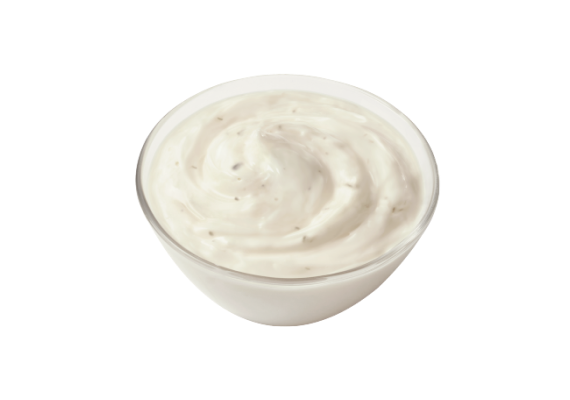
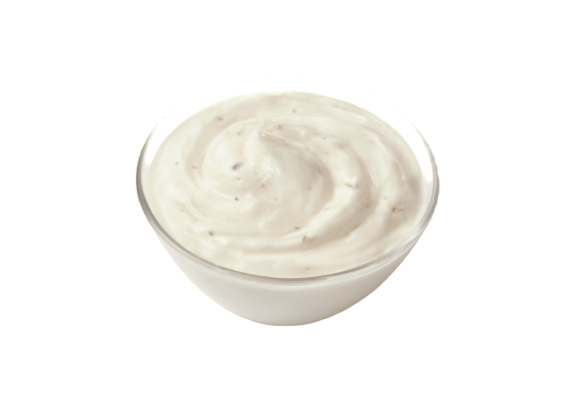
소스토핑 구조 구현

diff --git a/src/data/toppingData.js b/src/data/toppingData.js
@@ -114,3 +114,91 @@ export const vegetables = [
     image:  process.env.PUBLIC_URL + "/images/vegetables/vege09.png",
   },
 ];
+
+export const sauce = [
+ {
+    id: 1,
+    name: "렌치",
+    eng: "Ranch",
+    image:  process.env.PUBLIC_URL + "/images/sauce/sauce01.png",
+  },
+ {
+    id: 2,
+    name: "스위트 어니언",
+    eng: "Sweet Onion",
+    image:  process.env.PUBLIC_URL + "/images/sauce/sauce02.png",
+  },
+ {
+    id: 3,
+    name: "마요네즈",
+    eng: "Mayonnaise",
+    image:  process.env.PUBLIC_URL + "/images/sauce/sauce03.png",
+  },
+ {
+    id: 4,
+    name: "스위트 칠리",
+    eng: "Sweet Chilli",
+    image:  process.env.PUBLIC_URL + "/images/sauce/sauce04.png",
+  },
+ {
+    id: 5,
+    name: "스모크 바비큐",
+    eng: "Smoke BBQ",
+    image:  process.env.PUBLIC_URL + "/images/sauce/sauce05.png",
+  },
+ {
+    id: 6,
+    name: "핫 칠리",
+    eng: "Hot Chilli",
+    image:  process.env.PUBLIC_URL + "/images/sauce/sauce06.png",
+  },
+ {
+    id: 7,
+    name: "허니 머스터드",
+    eng: "Honey Mustard",
+    image:  process.env.PUBLIC_URL + "/images/sauce/sauce07.png",
+  },
+ {
+    id: 8,
+    name: "사우스웨스트 치폴레",
+    eng: "Southwest Chipotle",
+    image:  process.env.PUBLIC_URL + "/images/sauce/sauce08.png",
+  },
+ {
+    id: 9,
+    name: "홀스래디쉬",
+    eng: "Horseradish",
+    image:  process.env.PUBLIC_URL + "/images/sauce/sauce09.png",
+  },
+ {
+    id: 10,
+    name: "저당 크리미 어니언",
+    eng: "Low Sugar Creamy Onion",
+    image:  process.env.PUBLIC_URL + "/images/sauce/sauce10.png",
+  },
+ {
+    id: 11,
+    name: "엑스트라 버진 올리브 오일",
+    eng: "Extra Virgin Olive Oil",
+    image:  process.env.PUBLIC_URL + "/images/sauce/sauce11.png",
+  },
+ {
+    id: 12,
+    name: "레드 와인 식초",
+    eng: "Red Wine Vinaigrette",
+    image:  process.env.PUBLIC_URL + "/images/sauce/sauce012.png",
+  },
+ {
+    id: 13,
+    name: "소금",
+    eng: "Salt",
+    image:  process.env.PUBLIC_URL + "/images/sauce/sauce013.png",
+  },
+ {
+    id: 14,
+    name: "후추",
+    eng: "Black Pepper",
+    image:  process.env.PUBLIC_URL + "/images/sauce/sauce014.png",
+  },
+
+];

diff --git a/src/components/menu/Step3Sauce.js b/src/components/menu/Step3Sauce.js
@@ -1,0 +1,76 @@
+import React from "react";
+import { useDispatch, useSelector } from "react-redux";
+import styled from "styled-components";
+import { saveSandwich, toggleSauce } from "../../store/orderSlice";
+import { sauce } from "../../data/toppingData";
+import ToppingItem from "../common/ToppingItem";
+
+const Section = styled.div`
+  margin-bottom: 20px;
+  display: flex;
+  flex-direction: column;
+  align-items: center;
+  min-height: 200px;
+`;
+
+const Grid = styled.div`
+  display: grid;
+  grid-template-columns: repeat(3, 220px);
+  gap: 20px;
+`;
+
+const CartSection = styled.div`
+  margin-top: 40px;
+  width: 100%;
+  max-width: 900px;
+`;
+
+const CartItem = styled.div`
+  display: flex;
+  justify-content: space-between;
+  padding: 10px 20px;
+  border-bottom: 1px solid #ddd;
+`;
+
+export default function Step3Sauce({ onNext }) {
+  const dispatch = useDispatch();
+  const selectedSauces = useSelector((state) => state.order.sauces);
+  const cart = useSelector((state) => state.order.cart);
+
+  const handleNext = () => {
+    dispatch(saveSandwich());
+    onNext();
+  };
+
+  return (
+    <>
+      <Section>
+        <Grid>
+          {sauce.map((item) => (
+            <ToppingItem
+              key={item.id}
+              item={item}
+              active={selectedSauces.some((v) => v.id === item.id)}
+              onClick={() => dispatch(toggleSauce(item))}
+            />
+          ))}
+        </Grid>
+      </Section>
+
+      <CartSection>
+        <h3>장바구니</h3>
+        {cart.map((item, id) => (
+          <CartItem key={id}>
+            <div>
+              <p>빵: {item.bread.name}</p>
+              <p>치즈: {item.cheese.name}</p>
+              <p>야채: {item.vegetables.map(v => v.name).join(", ")}</p>
+              <p>야채: {item.sauce.map(s => s.name).join(", ")}</p>
+            </div>
+            <div>{item.quantity}개</div>
+          </CartItem>
+        ))}
+      </CartSection>
+    </>
+  );
+}

diff --git a/src/store/orderSlice.js b/src/store/orderSlice.js
@@ -71,23 +71,43 @@ const orderSlice = createSlice({
     },
 
     toggleVegetable: (state, action) => {
-      const index = state.vegetables.indexOf(action.payload);
+      const item = action.payload;
+      const exists = state.vegetables.find((v) => v.id === item.id);
 
-      if (index > -1) {
-        state.vegetables.splice(index, 1);
+      if(exists) {
+        state.vegetables = state.vegetables.filter((v) => v.id !== item.id);
       } else {
-        state.vegetables.push(action.payload);
+        state.vegetables.push(item);
       }
     },
 
     toggleSauce: (state, action) => {
-      const index = state.sauce.indexOf(action.payload);
+     const item = action.payload;
+     const exists = state.sauce.find((v) => v.id === item.id);
+     if (exists) {
+      state.sauce = state.sauce.filter((v) => v.id !== item.id);
+     } else {
+      state.sauce.push(item);
+     }
+    },
 
-      if (index > -1) {
-        state.sauce.splice(index, 1);
-      } else {
-        state.sauce.push(action.payload);
-      }
+    saveSandwich: (state) => {
+      if(!state.bread || !state.cheese) return;
+
+      const newSandwich = {
+        bread: state.bread,
+        cheese: state.cheese,
+        vegetables: [...state.vegetables],
+        sauce: [...state.sauce],
+        quantity: 1,
+      };
+
+      state.cart.push(newSandwich);
+
+      state.bread = null;
+      state.cheese = null;
+      state.vegetables = [];
+      state.sauce = [];
     },
 
     setSide: (state, action) => {
@@ -118,6 +138,7 @@ export const {
   setCheese,
   toggleVegetable,
   toggleSauce,
+  saveSandwich,
   setSide,
   setDrink,
   addCart,

diff --git a/src/components/menu/Step2Vegetable.js b/src/components/menu/Step2Vegetable.js
@@ -6,8 +6,11 @@ import { toggleVegetable } from "../../store/orderSlice";
 import { useDispatch, useSelector } from "react-redux";
 
 const Section = styled.div`
-  width: 100%;
-  max-width: 900px;
+  margin-bottom: 20px;
+  display: flex;
+  flex-direction: column;
+  align-items: center;
+  min-height: 200px;
 `;
 
 const Grid = styled.div`

diff --git a/src/components/menu/Step1BreadCheese.js b/src/components/menu/Step1BreadCheese.js
@@ -6,7 +6,11 @@ import { bread, cheese } from "../../data/toppingData";
 import ToppingItem from "../common/ToppingItem";
 
 const Section = styled.div`
-  margin-bottom: 40px;
+  margin-bottom: 20px;
+  display: flex;
+  flex-direction: column;
+  align-items: center;
+  min-height: 200px;
 `;
 
 const Grid = styled.div`

diff --git a/src/components/common/ToppingModal.js b/src/components/common/ToppingModal.js
@@ -61,9 +61,8 @@ const Content = styled.div`
   flex: 1;
   display: flex;
   flex-direction: column;
-  justify-content: center;
+  justify-content: start;
   align-items: center;
-  min-height: 300px;
   overflow-y: hidden;
 `;
 
